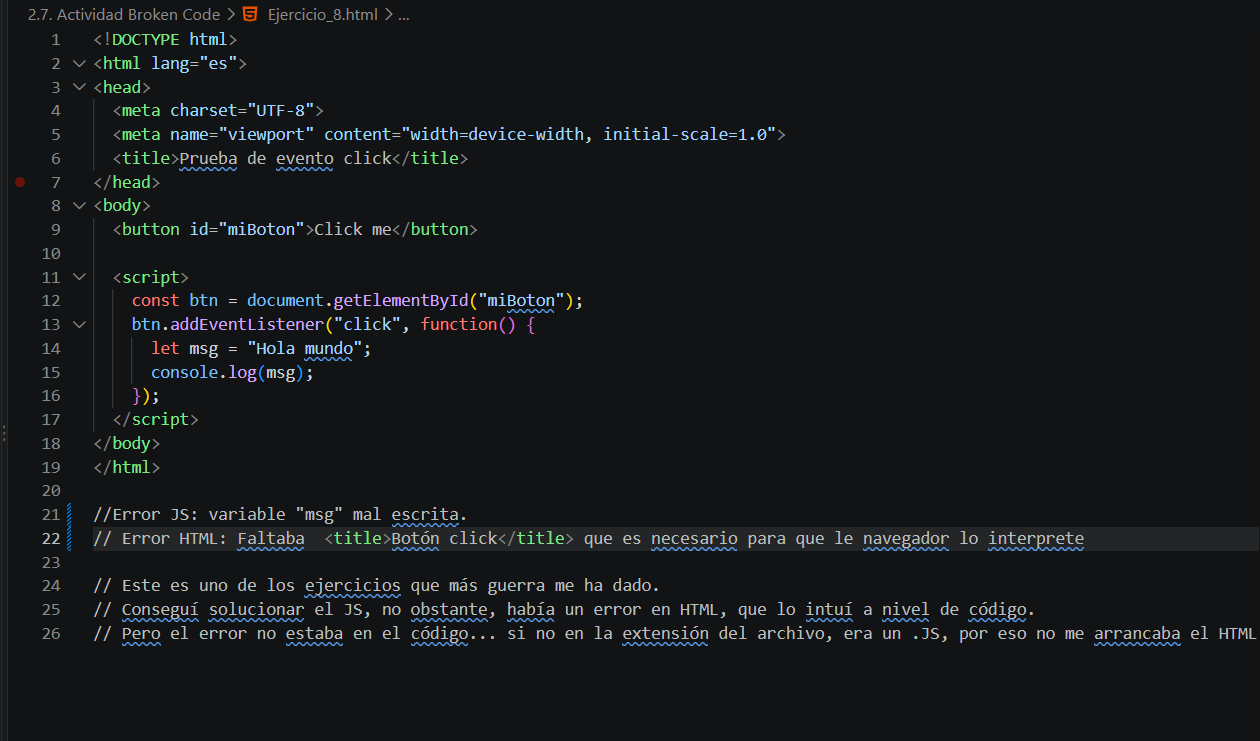
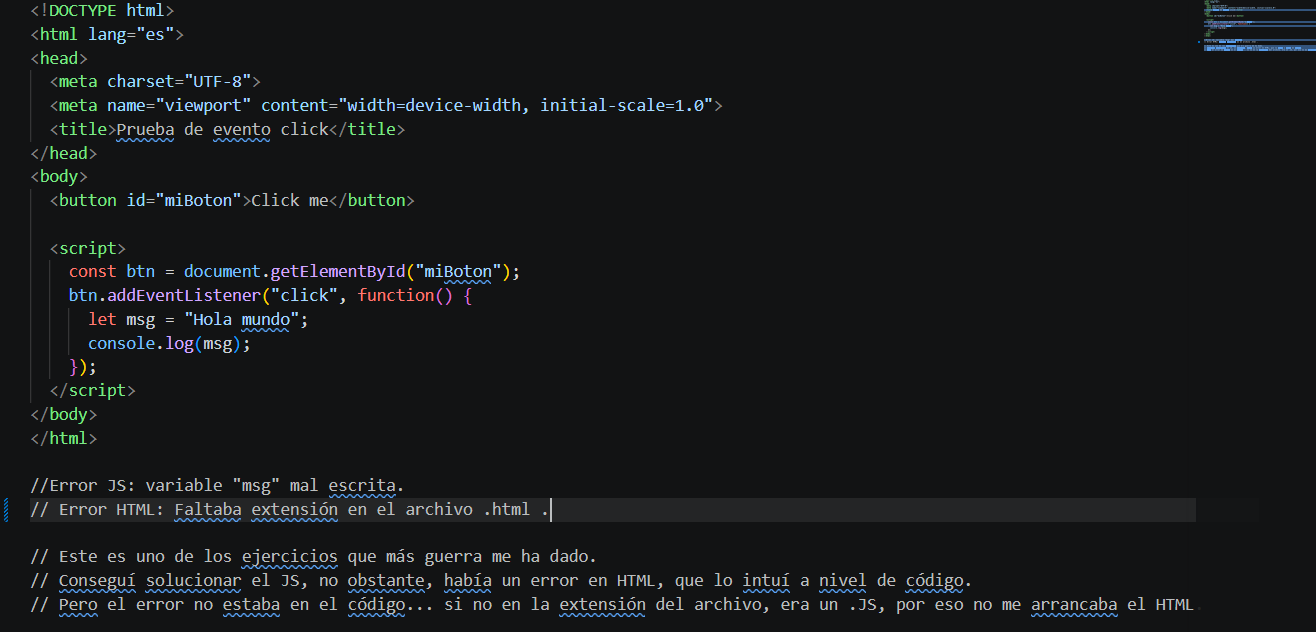
Corrección

Changed region(s): [[0.0, 0.0, 1.0, 0.9921], [0.8976, 0.0, 1.0, 0.0902]]

diff --git a/2.7. Actividad Broken Code/Ejercicio_8.html b/2.7. Actividad Broken Code/Ejercicio_8.html
@@ -19,7 +19,7 @@
 </html>
 
 //Error JS: variable "msg" mal escrita. 
-// Error HTML: Faltaba  <title>Botón click</title> que es necesario para que le navegador lo interprete
+// Error HTML: Faltaba extensión en el archivo .html .
 
 // Este es uno de los ejercicios que más guerra me ha dado.
 // Conseguí solucionar el JS, no obstante, había un error en HTML, que lo intuí a nivel de código.

diff --git a/2.7. Actividad Broken Code/ExplicacionEjercicios.md b/2.7. Actividad Broken Code/ExplicacionEjercicios.md
@@ -40,10 +40,10 @@ Por tanto, si el resto de la división entre 2 === 0: TRUE. Si no es FALSO.
  # 8: Evento click sospechoso.
 
 Error en JS: variable "msj" mal escrita, definida como "msg". 
-Error en HTML: Faltaba  `<title>Botón click</title>`que es necesario para que le navegador lo interprete.
+Error en HTML: Error en la extensión del archivo
 
 Este es el ejercicio que más guerra me ha dado.
-Conseguí solucionar el JS. No obstante, había un error en HTML que lo intuí a nivel de código.
+Conseguí solucionar el JS.
 Pero el error no estaba en el código... si no en la extensión del archivo, era un .JS, por eso no me interpretaba el HTML.
 
 
